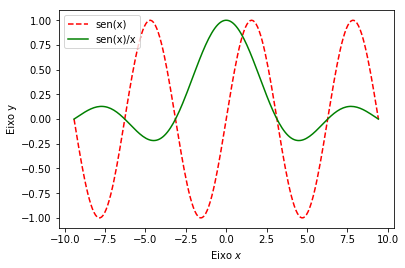
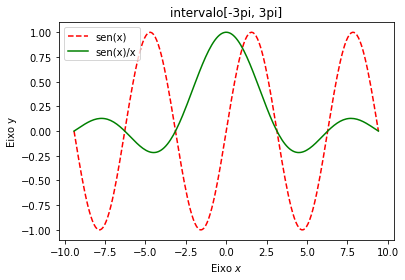
adicionando graficos em p3

diff --git a/notebook.tex b/notebook.tex
@@ -291,31 +291,32 @@ f(x)   = \frac{senx}{x}
 \end{equation*}
 
     \begin{Verbatim}[commandchars=\\\{\}]
-{\color{incolor}In [{\color{incolor}1}]:} \PY{k+kn}{import} \PY{n+nn}{matplotlib}\PY{n+nn}{.}\PY{n+nn}{pyplot} \PY{k}{as} \PY{n+nn}{plt}
-        \PY{k+kn}{import} \PY{n+nn}{numpy} \PY{k}{as} \PY{n+nn}{np}
-        \PY{k+kn}{import} \PY{n+nn}{pandas} \PY{k}{as} \PY{n+nn}{pd}
-        \PY{k+kn}{import} \PY{n+nn}{texttable} \PY{k}{as} \PY{n+nn}{tt}
-        \PY{k+kn}{from} \PY{n+nn}{scipy}\PY{n+nn}{.}\PY{n+nn}{integrate} \PY{k}{import} \PY{n}{quad}
-        \PY{k+kn}{import} \PY{n+nn}{csv}
+{\color{incolor}In [{\color{incolor}12}]:} \PY{k+kn}{import} \PY{n+nn}{matplotlib}\PY{n+nn}{.}\PY{n+nn}{pyplot} \PY{k}{as} \PY{n+nn}{plt}
+         \PY{k+kn}{import} \PY{n+nn}{numpy} \PY{k}{as} \PY{n+nn}{np}
+         \PY{k+kn}{import} \PY{n+nn}{pandas} \PY{k}{as} \PY{n+nn}{pd}
+         \PY{k+kn}{import} \PY{n+nn}{texttable} \PY{k}{as} \PY{n+nn}{tt}
+         \PY{k+kn}{from} \PY{n+nn}{scipy}\PY{n+nn}{.}\PY{n+nn}{integrate} \PY{k}{import} \PY{n}{quad}
+         \PY{k+kn}{import} \PY{n+nn}{csv}
 \end{Verbatim}
 
 
     \begin{Verbatim}[commandchars=\\\{\}]
-{\color{incolor}In [{\color{incolor}2}]:} \PY{k}{def} \PY{n+nf}{gera\PYZus{}grafico}\PY{p}{(}\PY{p}{)}\PY{p}{:}
-            \PY{n}{x} \PY{o}{=} \PY{n}{np}\PY{o}{.}\PY{n}{linspace}\PY{p}{(}\PY{o}{\PYZhy{}}\PY{l+m+mi}{3}\PY{o}{*}\PY{n}{np}\PY{o}{.}\PY{n}{pi}\PY{p}{,} \PY{p}{(}\PY{l+m+mi}{3}\PY{o}{*}\PY{n}{np}\PY{o}{.}\PY{n}{pi}\PY{p}{)}\PY{p}{,} \PY{l+m+mi}{200}\PY{p}{)}
-            \PY{n}{y} \PY{o}{=} \PY{n}{np}\PY{o}{.}\PY{n}{sin}\PY{p}{(}\PY{n}{x}\PY{p}{)}
-            \PY{n}{y2} \PY{o}{=} \PY{n}{y} \PY{o}{/} \PY{n}{x}
-            \PY{n}{plt}\PY{o}{.}\PY{n}{plot}\PY{p}{(}\PY{n}{x}\PY{p}{,} \PY{n}{y}\PY{p}{,} \PY{l+s+s1}{\PYZsq{}}\PY{l+s+s1}{\PYZhy{}\PYZhy{}r}\PY{l+s+s1}{\PYZsq{}}\PY{p}{,} \PY{n}{label}\PY{o}{=}\PY{l+s+s1}{\PYZsq{}}\PY{l+s+s1}{sen(x)}\PY{l+s+s1}{\PYZsq{}}\PY{p}{)}
-            \PY{n}{plt}\PY{o}{.}\PY{n}{plot}\PY{p}{(}\PY{n}{x}\PY{p}{,} \PY{n}{y2}\PY{p}{,} \PY{n}{color}\PY{o}{=}\PY{l+s+s1}{\PYZsq{}}\PY{l+s+s1}{green}\PY{l+s+s1}{\PYZsq{}}\PY{p}{,} \PY{n}{label}\PY{o}{=}\PY{l+s+s1}{\PYZsq{}}\PY{l+s+s1}{sen(x)/x}\PY{l+s+s1}{\PYZsq{}}\PY{p}{)}
-            \PY{n}{plt}\PY{o}{.}\PY{n}{xlabel}\PY{p}{(}\PY{l+s+sa}{r}\PY{l+s+s1}{\PYZsq{}}\PY{l+s+s1}{Eixo \PYZdl{}x\PYZdl{}}\PY{l+s+s1}{\PYZsq{}}\PY{p}{)}
-            \PY{n}{plt}\PY{o}{.}\PY{n}{ylabel}\PY{p}{(}\PY{l+s+s1}{\PYZsq{}}\PY{l+s+s1}{Eixo y}\PY{l+s+s1}{\PYZsq{}}\PY{p}{)}
-            \PY{n}{plt}\PY{o}{.}\PY{n}{legend}\PY{p}{(}\PY{p}{)}
-            \PY{n}{plt}\PY{o}{.}\PY{n}{show}\PY{p}{(}\PY{p}{)}
+{\color{incolor}In [{\color{incolor}34}]:} \PY{k}{def} \PY{n+nf}{gera\PYZus{}grafico}\PY{p}{(}\PY{n}{p1}\PY{o}{=}\PY{o}{\PYZhy{}}\PY{l+m+mi}{3}\PY{o}{*}\PY{n}{np}\PY{o}{.}\PY{n}{pi}\PY{p}{,} \PY{n}{p2}\PY{o}{=}\PY{p}{(}\PY{l+m+mi}{3}\PY{o}{*}\PY{n}{np}\PY{o}{.}\PY{n}{pi}\PY{p}{)}\PY{p}{,} \PY{n}{texto}\PY{o}{=}\PY{l+s+s1}{\PYZsq{}}\PY{l+s+s1}{nada}\PY{l+s+s1}{\PYZsq{}}\PY{p}{)}\PY{p}{:}
+             \PY{n}{x} \PY{o}{=} \PY{n}{np}\PY{o}{.}\PY{n}{linspace}\PY{p}{(}\PY{n}{p1}\PY{p}{,}\PY{n}{p2}\PY{p}{,}\PY{l+m+mi}{200}\PY{p}{)}
+             \PY{n}{y} \PY{o}{=} \PY{n}{np}\PY{o}{.}\PY{n}{sin}\PY{p}{(}\PY{n}{x}\PY{p}{)}
+             \PY{n}{y2} \PY{o}{=} \PY{n}{y} \PY{o}{/} \PY{n}{x}
+             \PY{n}{plt}\PY{o}{.}\PY{n}{plot}\PY{p}{(}\PY{n}{x}\PY{p}{,} \PY{n}{y}\PY{p}{,} \PY{l+s+s1}{\PYZsq{}}\PY{l+s+s1}{\PYZhy{}\PYZhy{}r}\PY{l+s+s1}{\PYZsq{}}\PY{p}{,} \PY{n}{label}\PY{o}{=}\PY{l+s+s1}{\PYZsq{}}\PY{l+s+s1}{sen(x)}\PY{l+s+s1}{\PYZsq{}}\PY{p}{)}
+             \PY{n}{plt}\PY{o}{.}\PY{n}{plot}\PY{p}{(}\PY{n}{x}\PY{p}{,} \PY{n}{y2}\PY{p}{,} \PY{n}{color}\PY{o}{=}\PY{l+s+s1}{\PYZsq{}}\PY{l+s+s1}{green}\PY{l+s+s1}{\PYZsq{}}\PY{p}{,} \PY{n}{label}\PY{o}{=}\PY{l+s+s1}{\PYZsq{}}\PY{l+s+s1}{sen(x)/x}\PY{l+s+s1}{\PYZsq{}}\PY{p}{)}
+             \PY{n}{plt}\PY{o}{.}\PY{n}{title}\PY{p}{(}\PY{n}{texto}\PY{p}{)}
+             \PY{n}{plt}\PY{o}{.}\PY{n}{xlabel}\PY{p}{(}\PY{l+s+sa}{r}\PY{l+s+s1}{\PYZsq{}}\PY{l+s+s1}{Eixo \PYZdl{}x\PYZdl{}}\PY{l+s+s1}{\PYZsq{}}\PY{p}{)}
+             \PY{n}{plt}\PY{o}{.}\PY{n}{ylabel}\PY{p}{(}\PY{l+s+s1}{\PYZsq{}}\PY{l+s+s1}{Eixo y}\PY{l+s+s1}{\PYZsq{}}\PY{p}{)}
+             \PY{n}{plt}\PY{o}{.}\PY{n}{legend}\PY{p}{(}\PY{p}{)}
+             \PY{n}{plt}\PY{o}{.}\PY{n}{show}\PY{p}{(}\PY{p}{)}
 \end{Verbatim}
 
 
     \begin{Verbatim}[commandchars=\\\{\}]
-{\color{incolor}In [{\color{incolor}3}]:} \PY{n}{gera\PYZus{}grafico}\PY{p}{(}\PY{p}{)}
+{\color{incolor}In [{\color{incolor}37}]:} \PY{n}{gera\PYZus{}grafico}\PY{p}{(}\PY{n}{texto}\PY{o}{=}\PY{l+s+s1}{\PYZsq{}}\PY{l+s+s1}{intervalo[\PYZhy{}3pi, 3pi]}\PY{l+s+s1}{\PYZsq{}}\PY{p}{)}
 \end{Verbatim}
 
 
@@ -392,32 +393,36 @@ x = 3\pi & \\
 \end{equation*}
 
     \begin{Verbatim}[commandchars=\\\{\}]
-{\color{incolor}In [{\color{incolor}4}]:} \PY{k}{def} \PY{n+nf}{fatorial}\PY{p}{(}\PY{n}{x}\PY{p}{)}\PY{p}{:}
-          \PY{k}{if} \PY{n}{x} \PY{o}{==} \PY{l+m+mi}{0}\PY{p}{:}
-            \PY{k}{return} \PY{l+m+mi}{1}
-          \PY{k}{return} \PY{n}{x} \PY{o}{*} \PY{n}{fatorial}\PY{p}{(}\PY{n}{x}\PY{o}{\PYZhy{}}\PY{l+m+mi}{1}\PY{p}{)}
-        
-        \PY{k}{def} \PY{n+nf}{verifica\PYZus{}derivada}\PY{p}{(}\PY{p}{)}\PY{p}{:}
-            \PY{n}{tabela} \PY{o}{=} \PY{n}{tt}\PY{o}{.}\PY{n}{Texttable}\PY{p}{(}\PY{p}{)}
-            \PY{n}{tabela}\PY{o}{.}\PY{n}{header}\PY{p}{(}\PY{p}{[}\PY{l+s+s1}{\PYZsq{}}\PY{l+s+s1}{x}\PY{l+s+s1}{\PYZsq{}}\PY{p}{,} \PY{l+s+s1}{\PYZsq{}}\PY{l+s+s1}{valor}\PY{l+s+s1}{\PYZsq{}}\PY{p}{]}\PY{p}{)}
-            \PY{n}{valores} \PY{o}{=} \PY{p}{[}\PY{l+s+s1}{\PYZsq{}}\PY{l+s+s1}{0}\PY{l+s+s1}{\PYZsq{}}\PY{p}{,}\PY{l+s+s1}{\PYZsq{}}\PY{l+s+s1}{pi/2}\PY{l+s+s1}{\PYZsq{}}\PY{p}{,}\PY{l+s+s1}{\PYZsq{}}\PY{l+s+s1}{pi}\PY{l+s+s1}{\PYZsq{}}\PY{p}{,}\PY{l+s+s1}{\PYZsq{}}\PY{l+s+s1}{3pi/2}\PY{l+s+s1}{\PYZsq{}}\PY{p}{,}\PY{l+s+s1}{\PYZsq{}}\PY{l+s+s1}{2pi}\PY{l+s+s1}{\PYZsq{}}\PY{p}{,}\PY{l+s+s1}{\PYZsq{}}\PY{l+s+s1}{5pi/2}\PY{l+s+s1}{\PYZsq{}}\PY{p}{,}\PY{l+s+s1}{\PYZsq{}}\PY{l+s+s1}{3pi}\PY{l+s+s1}{\PYZsq{}}\PY{p}{]}
-            \PY{n}{pontos} \PY{o}{=} \PY{p}{[}\PY{l+m+mf}{0.0}\PY{p}{,} \PY{p}{(}\PY{n}{np}\PY{o}{.}\PY{n}{pi}\PY{o}{/}\PY{l+m+mi}{2}\PY{p}{)}\PY{p}{,} \PY{p}{(}\PY{n}{np}\PY{o}{.}\PY{n}{pi}\PY{p}{)}\PY{p}{,} \PY{p}{(}\PY{l+m+mi}{3}\PY{o}{*}\PY{n}{np}\PY{o}{.}\PY{n}{pi}\PY{p}{)}\PY{o}{/}\PY{l+m+mi}{2}\PY{p}{,} \PY{p}{(}\PY{l+m+mi}{2}\PY{o}{*}\PY{n}{np}\PY{o}{.}\PY{n}{pi}\PY{p}{)}\PY{p}{,} \PY{p}{(}\PY{l+m+mi}{5}\PY{o}{*}\PY{n}{np}\PY{o}{.}\PY{n}{pi}\PY{p}{)}\PY{o}{/}\PY{l+m+mi}{2}\PY{p}{,} \PY{p}{(}\PY{l+m+mi}{3}\PY{o}{*}\PY{n}{np}\PY{o}{.}\PY{n}{pi}\PY{p}{)}\PY{p}{]}
-            \PY{n}{resultado} \PY{o}{=} \PY{l+m+mf}{0.0}
-            \PY{n}{i} \PY{o}{=} \PY{l+m+mi}{0}
-            \PY{k}{for} \PY{n}{x} \PY{o+ow}{in} \PY{n}{pontos}\PY{p}{:}
-                \PY{n}{v} \PY{o}{=} \PY{n}{valores}\PY{p}{[}\PY{n}{i}\PY{p}{]} \PY{c+c1}{\PYZsh{}variavel criada para deixar ajudar a preencher a tabela}
-                \PY{n}{resultado} \PY{o}{=} \PY{l+m+mf}{0.0}
-                \PY{k}{for} \PY{n}{n} \PY{o+ow}{in} \PY{n+nb}{range}\PY{p}{(}\PY{l+m+mi}{1}\PY{p}{,}\PY{l+m+mi}{20}\PY{p}{)}\PY{p}{:} \PY{c+c1}{\PYZsh{} somatoria de n = 1 até 20}
-                    \PY{n}{fat} \PY{o}{=} \PY{n}{fatorial}\PY{p}{(}\PY{p}{(}\PY{p}{(}\PY{l+m+mi}{2}\PY{o}{*}\PY{n}{n}\PY{p}{)}\PY{o}{+}\PY{l+m+mi}{1}\PY{p}{)}\PY{p}{)}
-                    \PY{n}{resultado} \PY{o}{=} \PY{n}{resultado} \PY{o}{+} \PY{p}{(}\PY{p}{(}\PY{p}{(}\PY{p}{(}\PY{o}{\PYZhy{}}\PY{l+m+mi}{1}\PY{p}{)} \PY{o}{*}\PY{o}{*} \PY{n}{n}\PY{p}{)} \PY{o}{*} \PY{p}{(}\PY{l+m+mi}{2}\PY{o}{*}\PY{n}{n}\PY{p}{)}\PY{p}{)}\PY{o}{/}\PY{n}{fat}\PY{p}{)}\PY{o}{*}\PY{p}{(}\PY{p}{(}\PY{n}{x}\PY{p}{)} \PY{o}{*}\PY{o}{*} \PY{p}{(}\PY{p}{(}\PY{l+m+mi}{2}\PY{o}{*}\PY{n}{n}\PY{p}{)}\PY{o}{\PYZhy{}}\PY{l+m+mi}{1}\PY{p}{)}\PY{p}{)} 
-                \PY{n}{tabela}\PY{o}{.}\PY{n}{add\PYZus{}row}\PY{p}{(}\PY{p}{[}\PY{n}{v}\PY{p}{,}\PY{n}{resultado}\PY{p}{]}\PY{p}{)} \PY{c+c1}{\PYZsh{}salvando os dados na tabela abaixo}
-                \PY{n}{i}\PY{o}{+}\PY{o}{=}\PY{l+m+mi}{1}
-            \PY{n+nb}{print}\PY{p}{(}\PY{n}{tabela}\PY{o}{.}\PY{n}{draw}\PY{p}{(}\PY{p}{)}\PY{p}{)} \PY{c+c1}{\PYZsh{}exibindo resultados}
+{\color{incolor}In [{\color{incolor}19}]:} \PY{k}{def} \PY{n+nf}{fatorial}\PY{p}{(}\PY{n}{x}\PY{p}{)}\PY{p}{:}
+           \PY{k}{if} \PY{n}{x} \PY{o}{==} \PY{l+m+mi}{0}\PY{p}{:}
+             \PY{k}{return} \PY{l+m+mi}{1}
+           \PY{k}{return} \PY{n}{x} \PY{o}{*} \PY{n}{fatorial}\PY{p}{(}\PY{n}{x}\PY{o}{\PYZhy{}}\PY{l+m+mi}{1}\PY{p}{)}
+         
+         \PY{k}{def} \PY{n+nf}{verifica\PYZus{}derivada}\PY{p}{(}\PY{p}{)}\PY{p}{:}
+             \PY{n}{tabela} \PY{o}{=} \PY{n}{tt}\PY{o}{.}\PY{n}{Texttable}\PY{p}{(}\PY{p}{)}
+             \PY{n}{tabela}\PY{o}{.}\PY{n}{header}\PY{p}{(}\PY{p}{[}\PY{l+s+s1}{\PYZsq{}}\PY{l+s+s1}{x}\PY{l+s+s1}{\PYZsq{}}\PY{p}{,} \PY{l+s+s1}{\PYZsq{}}\PY{l+s+s1}{valor}\PY{l+s+s1}{\PYZsq{}}\PY{p}{]}\PY{p}{)}
+             \PY{n}{valores} \PY{o}{=} \PY{p}{[}\PY{l+s+s1}{\PYZsq{}}\PY{l+s+s1}{0}\PY{l+s+s1}{\PYZsq{}}\PY{p}{,}\PY{l+s+s1}{\PYZsq{}}\PY{l+s+s1}{pi/2}\PY{l+s+s1}{\PYZsq{}}\PY{p}{,}\PY{l+s+s1}{\PYZsq{}}\PY{l+s+s1}{pi}\PY{l+s+s1}{\PYZsq{}}\PY{p}{,}\PY{l+s+s1}{\PYZsq{}}\PY{l+s+s1}{3pi/2}\PY{l+s+s1}{\PYZsq{}}\PY{p}{,}\PY{l+s+s1}{\PYZsq{}}\PY{l+s+s1}{2pi}\PY{l+s+s1}{\PYZsq{}}\PY{p}{,}\PY{l+s+s1}{\PYZsq{}}\PY{l+s+s1}{5pi/2}\PY{l+s+s1}{\PYZsq{}}\PY{p}{,}\PY{l+s+s1}{\PYZsq{}}\PY{l+s+s1}{3pi}\PY{l+s+s1}{\PYZsq{}}\PY{p}{]}
+             \PY{n}{pontos} \PY{o}{=} \PY{p}{[}\PY{l+m+mf}{0.0}\PY{p}{,} \PY{p}{(}\PY{n}{np}\PY{o}{.}\PY{n}{pi}\PY{o}{/}\PY{l+m+mi}{2}\PY{p}{)}\PY{p}{,} \PY{p}{(}\PY{n}{np}\PY{o}{.}\PY{n}{pi}\PY{p}{)}\PY{p}{,} \PY{p}{(}\PY{l+m+mi}{3}\PY{o}{*}\PY{n}{np}\PY{o}{.}\PY{n}{pi}\PY{p}{)}\PY{o}{/}\PY{l+m+mi}{2}\PY{p}{,} \PY{p}{(}\PY{l+m+mi}{2}\PY{o}{*}\PY{n}{np}\PY{o}{.}\PY{n}{pi}\PY{p}{)}\PY{p}{,} \PY{p}{(}\PY{l+m+mi}{5}\PY{o}{*}\PY{n}{np}\PY{o}{.}\PY{n}{pi}\PY{p}{)}\PY{o}{/}\PY{l+m+mi}{2}\PY{p}{,} \PY{p}{(}\PY{l+m+mi}{3}\PY{o}{*}\PY{n}{np}\PY{o}{.}\PY{n}{pi}\PY{p}{)}\PY{p}{]}
+             \PY{n}{resultado} \PY{o}{=} \PY{l+m+mf}{0.0}
+             \PY{n}{i} \PY{o}{=} \PY{l+m+mi}{0}
+             \PY{k}{for} \PY{n}{x} \PY{o+ow}{in} \PY{n}{pontos}\PY{p}{:}
+                 \PY{n}{v} \PY{o}{=} \PY{n}{valores}\PY{p}{[}\PY{n}{i}\PY{p}{]} \PY{c+c1}{\PYZsh{}variavel criada para deixar ajudar a preencher a tabela}
+                 \PY{n}{resultado} \PY{o}{=} \PY{l+m+mf}{0.0}
+                 \PY{k}{for} \PY{n}{n} \PY{o+ow}{in} \PY{n+nb}{range}\PY{p}{(}\PY{l+m+mi}{1}\PY{p}{,}\PY{l+m+mi}{20}\PY{p}{)}\PY{p}{:} \PY{c+c1}{\PYZsh{} somatoria de n = 1 até 20}
+                     \PY{n}{fat} \PY{o}{=} \PY{n}{fatorial}\PY{p}{(}\PY{p}{(}\PY{p}{(}\PY{l+m+mi}{2}\PY{o}{*}\PY{n}{n}\PY{p}{)}\PY{o}{+}\PY{l+m+mi}{1}\PY{p}{)}\PY{p}{)}
+                     \PY{n}{resultado} \PY{o}{=} \PY{n}{resultado} \PY{o}{+} \PY{p}{(}\PY{p}{(}\PY{p}{(}\PY{p}{(}\PY{o}{\PYZhy{}}\PY{l+m+mi}{1}\PY{p}{)} \PY{o}{*}\PY{o}{*} \PY{n}{n}\PY{p}{)} \PY{o}{*} \PY{p}{(}\PY{l+m+mi}{2}\PY{o}{*}\PY{n}{n}\PY{p}{)}\PY{p}{)}\PY{o}{/}\PY{n}{fat}\PY{p}{)}\PY{o}{*}\PY{p}{(}\PY{p}{(}\PY{n}{x}\PY{p}{)} \PY{o}{*}\PY{o}{*} \PY{p}{(}\PY{p}{(}\PY{l+m+mi}{2}\PY{o}{*}\PY{n}{n}\PY{p}{)}\PY{o}{\PYZhy{}}\PY{l+m+mi}{1}\PY{p}{)}\PY{p}{)} 
+                 \PY{n}{tabela}\PY{o}{.}\PY{n}{add\PYZus{}row}\PY{p}{(}\PY{p}{[}\PY{n}{v}\PY{p}{,}\PY{n}{resultado}\PY{p}{]}\PY{p}{)} \PY{c+c1}{\PYZsh{}salvando os dados na tabela abaixo}
+                 \PY{n}{i}\PY{o}{+}\PY{o}{=}\PY{l+m+mi}{1}
+             \PY{n+nb}{print}\PY{p}{(}\PY{n}{tabela}\PY{o}{.}\PY{n}{draw}\PY{p}{(}\PY{p}{)}\PY{p}{)} \PY{c+c1}{\PYZsh{}exibindo resultados}
 \end{Verbatim}
 
 
     \begin{Verbatim}[commandchars=\\\{\}]
-{\color{incolor}In [{\color{incolor}5}]:} \PY{n}{verifica\PYZus{}derivada}\PY{p}{(}\PY{p}{)}
+{\color{incolor}In [{\color{incolor}38}]:} \PY{n}{verifica\PYZus{}derivada}\PY{p}{(}\PY{p}{)}
+         \PY{n}{gera\PYZus{}grafico}\PY{p}{(}\PY{l+m+mf}{0.1}\PY{p}{,} \PY{n}{np}\PY{o}{.}\PY{n}{pi}\PY{p}{,} \PY{n}{texto}\PY{o}{=}\PY{l+s+s1}{\PYZsq{}}\PY{l+s+s1}{intervalo[0.1, pi]}\PY{l+s+s1}{\PYZsq{}}\PY{p}{)}
+         \PY{n}{gera\PYZus{}grafico}\PY{p}{(}\PY{n}{np}\PY{o}{.}\PY{n}{pi}\PY{p}{,} \PY{l+m+mi}{2}\PY{o}{*}\PY{n}{np}\PY{o}{.}\PY{n}{pi}\PY{p}{,} \PY{n}{texto}\PY{o}{=}\PY{l+s+s1}{\PYZsq{}}\PY{l+s+s1}{intervalo[pi, 2pi]}\PY{l+s+s1}{\PYZsq{}}\PY{p}{)}
+         \PY{n}{gera\PYZus{}grafico}\PY{p}{(}\PY{l+m+mi}{2}\PY{o}{*}\PY{n}{np}\PY{o}{.}\PY{n}{pi}\PY{p}{,} \PY{l+m+mi}{3}\PY{o}{*}\PY{n}{np}\PY{o}{.}\PY{n}{pi}\PY{p}{,} \PY{n}{texto}\PY{o}{=}\PY{l+s+s1}{\PYZsq{}}\PY{l+s+s1}{intervalo[2pi, 3pi]}\PY{l+s+s1}{\PYZsq{}}\PY{p}{)}
+         \PY{n}{gera\PYZus{}grafico}\PY{p}{(}\PY{l+m+mi}{3}\PY{o}{*}\PY{n}{np}\PY{o}{.}\PY{n}{pi}\PY{p}{,} \PY{l+m+mi}{4}\PY{o}{*}\PY{n}{np}\PY{o}{.}\PY{n}{pi}\PY{p}{,} \PY{n}{texto}\PY{o}{=}\PY{l+s+s1}{\PYZsq{}}\PY{l+s+s1}{intervalo[3pi, 4pi]}\PY{l+s+s1}{\PYZsq{}}\PY{p}{)}
 \end{Verbatim}
 
 
@@ -442,6 +447,26 @@ x = 3\pi & \\
 
     \end{Verbatim}
 
+    \begin{center}
+    \adjustimage{max size={0.9\linewidth}{0.9\paperheight}}{output_11_1.png}
+    \end{center}
+    { \hspace*{\fill} \\}
+    
+    \begin{center}
+    \adjustimage{max size={0.9\linewidth}{0.9\paperheight}}{output_11_2.png}
+    \end{center}
+    { \hspace*{\fill} \\}
+    
+    \begin{center}
+    \adjustimage{max size={0.9\linewidth}{0.9\paperheight}}{output_11_3.png}
+    \end{center}
+    { \hspace*{\fill} \\}
+    
+    \begin{center}
+    \adjustimage{max size={0.9\linewidth}{0.9\paperheight}}{output_11_4.png}
+    \end{center}
+    { \hspace*{\fill} \\}
+    
     \hypertarget{passo-4-gerar-uma-tabela-do-intervalo-03ux3c0-da-integral}{%
 \section{Passo 4 -- Gerar uma tabela do intervalo {[}0,3π{]} da
 integral}\label{passo-4-gerar-uma-tabela-do-intervalo-03ux3c0-da-integral}}
@@ -451,44 +476,44 @@ integral}\label{passo-4-gerar-uma-tabela-do-intervalo-03ux3c0-da-integral}}
 \end{equation*}
 
     \begin{Verbatim}[commandchars=\\\{\}]
-{\color{incolor}In [{\color{incolor}10}]:} \PY{k}{def} \PY{n+nf}{f}\PY{p}{(}\PY{n}{x}\PY{p}{)}\PY{p}{:}
-             \PY{n}{i} \PY{o}{=} \PY{l+m+mi}{1}
-             \PY{n}{soma} \PY{o}{=} \PY{l+m+mi}{1}
-             \PY{k}{while}\PY{p}{(}\PY{n}{i} \PY{o}{\PYZlt{}} \PY{l+m+mi}{30}\PY{p}{)}\PY{p}{:}
-                 \PY{n}{fat} \PY{o}{=} \PY{n}{fatorial}\PY{p}{(}\PY{p}{(}\PY{l+m+mi}{2}\PY{o}{*}\PY{n}{i}\PY{p}{)}\PY{o}{+}\PY{l+m+mi}{1}\PY{p}{)}
-                 \PY{n}{soma} \PY{o}{=} \PY{n}{soma} \PY{o}{+} \PY{p}{(}\PY{p}{(}\PY{o}{\PYZhy{}}\PY{l+m+mi}{1}\PY{p}{)}\PY{o}{*}\PY{o}{*}\PY{n}{i}\PY{p}{)} \PY{o}{*} \PY{p}{(}\PY{p}{(}\PY{p}{(}\PY{n}{x}\PY{p}{)}\PY{o}{*}\PY{o}{*}\PY{p}{(}\PY{p}{(}\PY{l+m+mi}{2}\PY{o}{*}\PY{n}{i}\PY{p}{)}\PY{p}{)}\PY{p}{)}\PY{o}{/}\PY{n}{fat}\PY{p}{)} \PY{c+c1}{\PYZsh{} concatena uma unica expressao dentro da integral}
-                 \PY{n}{i} \PY{o}{+}\PY{o}{=}\PY{l+m+mi}{1}
-             \PY{k}{return} \PY{n}{soma} \PY{c+c1}{\PYZsh{} expressao a ser integrada pela biblioteca \PYZdq{}scipy.integrate\PYZdq{}}
-         
-         \PY{k}{def} \PY{n+nf}{geraTabela}\PY{p}{(}\PY{p}{)}\PY{p}{:}
-             \PY{n}{x} \PY{o}{=} \PY{l+m+mi}{0}
-             \PY{n}{j} \PY{o}{=} \PY{l+m+mi}{0}
-             \PY{n}{i} \PY{o}{=} \PY{l+m+mf}{0.0}
-             \PY{n}{vet} \PY{o}{=} \PY{p}{[}\PY{p}{]}
-             \PY{n}{matriz} \PY{o}{=} \PY{p}{[}\PY{p}{]}
-             \PY{n}{tabela} \PY{o}{=} \PY{n}{tt}\PY{o}{.}\PY{n}{Texttable}\PY{p}{(}\PY{p}{)}
-             \PY{k}{while} \PY{p}{(}\PY{n}{i} \PY{o}{\PYZlt{}}\PY{o}{=} \PY{l+m+mi}{3}\PY{p}{)}\PY{p}{:} \PY{c+c1}{\PYZsh{} a variavel i varia de 0.0 ate 3.9 }
-                 \PY{k}{while} \PY{p}{(}\PY{n}{j} \PY{o}{\PYZlt{}}\PY{o}{=} \PY{l+m+mi}{9}\PY{p}{)}\PY{p}{:} \PY{c+c1}{\PYZsh{} linha da tabela varia de 1 a 9}
-                     \PY{n}{b} \PY{o}{=} \PY{n}{i} \PY{o}{+} \PY{p}{(}\PY{n}{j}\PY{o}{/}\PY{l+m+mf}{100.0}\PY{p}{)} \PY{c+c1}{\PYZsh{} incrementando de 0.01 por 0.01}
-                     \PY{n}{b} \PY{o}{=} \PY{n}{b} \PY{o}{*} \PY{n}{np}\PY{o}{.}\PY{n}{pi}
-                     \PY{n}{resultIntegral} \PY{o}{=} \PY{n}{quad}\PY{p}{(}\PY{n}{f}\PY{p}{,}\PY{l+m+mi}{0}\PY{p}{,}\PY{n}{b}\PY{p}{)} \PY{c+c1}{\PYZsh{} funcao q calcula a integral onde os parametros sao: (expressao a ser integrada, intervalo de integracao,intervalo de integracao)}
-                     \PY{n}{valor} \PY{o}{=} \PY{n}{resultIntegral}\PY{p}{[}\PY{l+m+mi}{0}\PY{p}{]}
-                     \PY{n}{vet}\PY{o}{.}\PY{n}{append}\PY{p}{(}\PY{n}{valor}\PY{p}{)} \PY{c+c1}{\PYZsh{}salvando o resultado em um vetor(linha a linha da tabela \PYZdq{}0.1\PYZdq{}, \PYZdq{}0.2\PYZdq{}, \PYZdq{}0.3\PYZdq{}, ...)}
-                     \PY{n}{j} \PY{o}{+}\PY{o}{=} \PY{l+m+mi}{1}
-                 \PY{n}{matriz}\PY{o}{.}\PY{n}{append}\PY{p}{(}\PY{n}{vet}\PY{p}{)} \PY{c+c1}{\PYZsh{} salvando a linha da tabela em uma matriz.}
-                 \PY{n}{tabela}\PY{o}{.}\PY{n}{add\PYZus{}row}\PY{p}{(}\PY{p}{[}\PY{n}{vet}\PY{p}{]}\PY{p}{)} \PY{c+c1}{\PYZsh{}salvando os dados na tabela abaixo}
-                 \PY{n}{vet} \PY{o}{=} \PY{p}{[}\PY{p}{]}
-                 \PY{n}{i} \PY{o}{+}\PY{o}{=} \PY{l+m+mf}{0.1}
-                 \PY{n}{j} \PY{o}{=} \PY{l+m+mi}{0}
-             \PY{n}{np}\PY{o}{.}\PY{n}{set\PYZus{}printoptions}\PY{p}{(}\PY{n}{precision}\PY{o}{=}\PY{l+m+mi}{6}\PY{p}{,} \PY{n}{linewidth}\PY{o}{=}\PY{l+m+mi}{200}\PY{p}{)} \PY{c+c1}{\PYZsh{}configurando o modo de visualizacao da matriz, onde o \PYZdq{}precision\PYZdq{} e a quantidade de casas decimais apos a virgula e o \PYZdq{}linewidth\PYZdq{} e quantidade de termos a serem imprimidas em uma linha}
-             \PY{c+c1}{\PYZsh{} print(np.matrix(matriz)) \PYZsh{} usando numpy para imprimir a matriz}
-             \PY{n}{def2} \PY{o}{=} \PY{n}{pd}\PY{o}{.}\PY{n}{DataFrame}\PY{p}{(}\PY{n}{np}\PY{o}{.}\PY{n}{matrix}\PY{p}{(}\PY{n}{matriz}\PY{p}{)}\PY{p}{)}
-             \PY{n+nb}{print}\PY{p}{(}\PY{n}{def2}\PY{p}{)}
+{\color{incolor}In [{\color{incolor}7}]:} \PY{k}{def} \PY{n+nf}{f}\PY{p}{(}\PY{n}{x}\PY{p}{)}\PY{p}{:}
+            \PY{n}{i} \PY{o}{=} \PY{l+m+mi}{0}
+            \PY{n}{soma} \PY{o}{=} \PY{l+m+mi}{0}
+            \PY{k}{while}\PY{p}{(}\PY{n}{i} \PY{o}{\PYZlt{}} \PY{l+m+mi}{30}\PY{p}{)}\PY{p}{:}
+                \PY{n}{fat} \PY{o}{=} \PY{n}{fatorial}\PY{p}{(}\PY{p}{(}\PY{l+m+mi}{2}\PY{o}{*}\PY{n}{i}\PY{p}{)}\PY{o}{+}\PY{l+m+mi}{1}\PY{p}{)}
+                \PY{n}{soma} \PY{o}{=} \PY{n}{soma} \PY{o}{+} \PY{p}{(}\PY{p}{(}\PY{o}{\PYZhy{}}\PY{l+m+mi}{1}\PY{p}{)}\PY{o}{*}\PY{o}{*}\PY{n}{i}\PY{p}{)} \PY{o}{*} \PY{p}{(}\PY{p}{(}\PY{p}{(}\PY{n}{x}\PY{p}{)}\PY{o}{*}\PY{o}{*}\PY{p}{(}\PY{p}{(}\PY{l+m+mi}{2}\PY{o}{*}\PY{n}{i}\PY{p}{)}\PY{p}{)}\PY{p}{)}\PY{o}{/}\PY{n}{fat}\PY{p}{)} \PY{c+c1}{\PYZsh{} concatena uma unica expressao dentro da integral}
+                \PY{n}{i} \PY{o}{+}\PY{o}{=}\PY{l+m+mi}{1}
+            \PY{k}{return} \PY{n}{soma} \PY{c+c1}{\PYZsh{} expressao a ser integrada pela biblioteca \PYZdq{}scipy.integrate\PYZdq{}}
+        
+        \PY{k}{def} \PY{n+nf}{geraTabela}\PY{p}{(}\PY{p}{)}\PY{p}{:}
+            \PY{n}{x} \PY{o}{=} \PY{l+m+mi}{0}
+            \PY{n}{j} \PY{o}{=} \PY{l+m+mi}{0}
+            \PY{n}{i} \PY{o}{=} \PY{l+m+mf}{0.0}
+            \PY{n}{vet} \PY{o}{=} \PY{p}{[}\PY{p}{]}
+            \PY{n}{matriz} \PY{o}{=} \PY{p}{[}\PY{p}{]}
+            \PY{n}{tabela} \PY{o}{=} \PY{n}{tt}\PY{o}{.}\PY{n}{Texttable}\PY{p}{(}\PY{p}{)}
+            \PY{k}{while} \PY{p}{(}\PY{n}{i} \PY{o}{\PYZlt{}}\PY{o}{=} \PY{l+m+mi}{3}\PY{p}{)}\PY{p}{:} \PY{c+c1}{\PYZsh{} a variavel i varia de 0.0 ate 3.9 }
+                \PY{k}{while} \PY{p}{(}\PY{n}{j} \PY{o}{\PYZlt{}}\PY{o}{=} \PY{l+m+mi}{9}\PY{p}{)}\PY{p}{:} \PY{c+c1}{\PYZsh{} linha da tabela varia de 1 a 9}
+                    \PY{n}{b} \PY{o}{=} \PY{n}{i} \PY{o}{+} \PY{p}{(}\PY{n}{j}\PY{o}{/}\PY{l+m+mf}{100.0}\PY{p}{)} \PY{c+c1}{\PYZsh{} incrementando de 0.01 por 0.01}
+                    \PY{n}{b} \PY{o}{=} \PY{n}{b} \PY{o}{*} \PY{n}{np}\PY{o}{.}\PY{n}{pi}
+                    \PY{n}{resultIntegral} \PY{o}{=} \PY{n}{quad}\PY{p}{(}\PY{n}{f}\PY{p}{,}\PY{l+m+mi}{0}\PY{p}{,}\PY{n}{b}\PY{p}{)} \PY{c+c1}{\PYZsh{} funcao q calcula a integral onde os parametros sao: (expressao a ser integrada, intervalo de integracao,intervalo de integracao)}
+                    \PY{n}{valor} \PY{o}{=} \PY{n}{resultIntegral}\PY{p}{[}\PY{l+m+mi}{0}\PY{p}{]}
+                    \PY{n}{vet}\PY{o}{.}\PY{n}{append}\PY{p}{(}\PY{n}{valor}\PY{p}{)} \PY{c+c1}{\PYZsh{}salvando o resultado em um vetor(linha a linha da tabela \PYZdq{}0.1\PYZdq{}, \PYZdq{}0.2\PYZdq{}, \PYZdq{}0.3\PYZdq{}, ...)}
+                    \PY{n}{j} \PY{o}{+}\PY{o}{=} \PY{l+m+mi}{1}
+                \PY{n}{matriz}\PY{o}{.}\PY{n}{append}\PY{p}{(}\PY{n}{vet}\PY{p}{)} \PY{c+c1}{\PYZsh{} salvando a linha da tabela em uma matriz.}
+                \PY{n}{tabela}\PY{o}{.}\PY{n}{add\PYZus{}row}\PY{p}{(}\PY{p}{[}\PY{n}{vet}\PY{p}{]}\PY{p}{)} \PY{c+c1}{\PYZsh{}salvando os dados na tabela abaixo}
+                \PY{n}{vet} \PY{o}{=} \PY{p}{[}\PY{p}{]}
+                \PY{n}{i} \PY{o}{+}\PY{o}{=} \PY{l+m+mf}{0.1}
+                \PY{n}{j} \PY{o}{=} \PY{l+m+mi}{0}
+            \PY{n}{np}\PY{o}{.}\PY{n}{set\PYZus{}printoptions}\PY{p}{(}\PY{n}{precision}\PY{o}{=}\PY{l+m+mi}{6}\PY{p}{,} \PY{n}{linewidth}\PY{o}{=}\PY{l+m+mi}{200}\PY{p}{)} \PY{c+c1}{\PYZsh{}configurando o modo de visualizacao da matriz, onde o \PYZdq{}precision\PYZdq{} e a quantidade de casas decimais apos a virgula e o \PYZdq{}linewidth\PYZdq{} e quantidade de termos a serem imprimidas em uma linha}
+            \PY{c+c1}{\PYZsh{} print(np.matrix(matriz)) \PYZsh{} usando numpy para imprimir a matriz}
+            \PY{n}{def2} \PY{o}{=} \PY{n}{pd}\PY{o}{.}\PY{n}{DataFrame}\PY{p}{(}\PY{n}{np}\PY{o}{.}\PY{n}{matrix}\PY{p}{(}\PY{n}{matriz}\PY{p}{)}\PY{p}{)}
+            \PY{n+nb}{print}\PY{p}{(}\PY{n}{def2}\PY{p}{)}
 \end{Verbatim}
 
 
     \begin{Verbatim}[commandchars=\\\{\}]
-{\color{incolor}In [{\color{incolor}11}]:} \PY{n}{geraTabela}\PY{p}{(}\PY{p}{)}
+{\color{incolor}In [{\color{incolor}8}]:} \PY{n}{geraTabela}\PY{p}{(}\PY{p}{)}
 \end{Verbatim}
 
 
